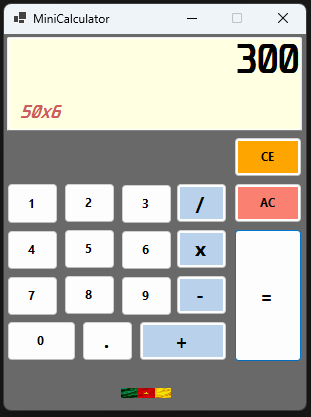
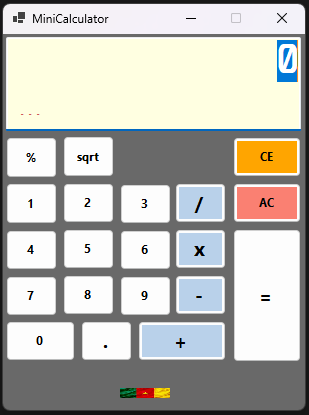
implemented modulo and square root functions

diff --git a/Form1.Designer.cs b/Form1.Designer.cs
@@ -49,6 +49,8 @@
             this.btnDigit0 = new System.Windows.Forms.Button();
             this.pictureBoxLogo = new System.Windows.Forms.PictureBox();
             this.labelDisplay = new System.Windows.Forms.Label();
+            this.buttonSqrt = new System.Windows.Forms.Button();
+            this.buttonModulo = new System.Windows.Forms.Button();
             ((System.ComponentModel.ISupportInitialize)(this.pictureBoxLogo)).BeginInit();
             this.SuspendLayout();
             // 
@@ -317,12 +319,38 @@
             this.labelDisplay.TextAlign = System.Drawing.ContentAlignment.BottomRight;
             this.labelDisplay.UseWaitCursor = true;
             // 
+            // buttonSqrt
+            // 
+            this.buttonSqrt.Font = new System.Drawing.Font("Segoe UI", 9F, System.Drawing.FontStyle.Bold, System.Drawing.GraphicsUnit.Point);
+            this.buttonSqrt.Location = new System.Drawing.Point(60, 102);
+            this.buttonSqrt.Name = "buttonSqrt";
+            this.buttonSqrt.Size = new System.Drawing.Size(51, 41);
+            this.buttonSqrt.TabIndex = 21;
+            this.buttonSqrt.Text = "sqrt";
+            this.buttonSqrt.UseVisualStyleBackColor = true;
+            this.buttonSqrt.UseWaitCursor = true;
+            this.buttonSqrt.Click += new System.EventHandler(this.btnOperator_click);
+            // 
+            // buttonModulo
+            // 
+            this.buttonModulo.Font = new System.Drawing.Font("Segoe UI", 9F, System.Drawing.FontStyle.Bold, System.Drawing.GraphicsUnit.Point);
+            this.buttonModulo.Location = new System.Drawing.Point(3, 103);
+            this.buttonModulo.Name = "buttonModulo";
+            this.buttonModulo.Size = new System.Drawing.Size(51, 41);
+            this.buttonModulo.TabIndex = 24;
+            this.buttonModulo.Text = "%";
+            this.buttonModulo.UseVisualStyleBackColor = true;
+            this.buttonModulo.UseWaitCursor = true;
+            this.buttonModulo.Click += new System.EventHandler(this.btnOperator_click);
+            // 
             // Calculator
             // 
             this.AutoScaleDimensions = new System.Drawing.SizeF(7F, 15F);
             this.AutoScaleMode = System.Windows.Forms.AutoScaleMode.Font;
             this.BackColor = System.Drawing.SystemColors.ControlDarkDark;
             this.ClientSize = new System.Drawing.Size(302, 376);
+            this.Controls.Add(this.buttonModulo);
+            this.Controls.Add(this.buttonSqrt);
             this.Controls.Add(this.labelDisplay);
             this.Controls.Add(this.pictureBoxLogo);
             this.Controls.Add(this.btnDigit0);
@@ -378,5 +406,7 @@
         private Button btnDigit0;
         private PictureBox pictureBoxLogo;
         private Label labelDisplay;
+        private Button buttonSqrt;
+        private Button buttonModulo;
     }
 }

diff --git a/Form1.cs b/Form1.cs
@@ -40,9 +40,19 @@ namespace MiniCalculator
             Button button = (Button)sender;
             operatorValue = button.Text;
 
-            displayValue = double.Parse(txtBoxDisplay.Text);
-            _ = true;
-            labelDisplay.Text = displayValue + "" + operatorValue;
+            //if "-" operator is pressed in order to enter a negative number, show "-" on screen
+            if (operatorValue=="-" && txtBoxDisplay.Text=="0")
+            {
+                txtBoxDisplay.Text = "-";
+            }
+            else
+            {
+                displayValue = double.Parse(txtBoxDisplay.Text);
+                _ = true;
+                labelDisplay.Text = displayValue + "" + operatorValue;
+            }
+
+            
         }
         private void btnOperatorEqual_click(object sender, EventArgs e)
         {
@@ -55,6 +65,7 @@ namespace MiniCalculator
                     break;
 
                 case "-":
+                    
                     txtBoxDisplay.Text = (displayValue - double.Parse(txtBoxDisplay.Text)).ToString();
                     break;
 
@@ -82,10 +93,39 @@ namespace MiniCalculator
                     }
                     
                     break;
+                case "%":
+                    txtBoxDisplay.Text = (displayValue % double.Parse(txtBoxDisplay.Text)).ToString();
+                    break;
+
+                case "sqrt":
+                    try
+                    {
+                        if (double.Parse(txtBoxDisplay.Text) < 0)
+                        {
+                            throw new Exception("MATH ERROR: Only positive numbers");
+                        }
+                        string typedNumber = txtBoxDisplay.Text;
+                        txtBoxDisplay.Text = Math.Sqrt(double.Parse(txtBoxDisplay.Text)).ToString();
+                        labelDisplay.Text = "Sqrt(" + typedNumber + ")";
+
+                    }
+                    catch (Exception ex)
+                    {
+
+                        // we catch the exception and show the error message on the screen
+                        txtBoxDisplay.Clear();
+                        labelDisplay.Text = ex.Message;
+                    }
+                    
+                    break;
+
+                default:
+                    txtBoxDisplay.Clear();
+                    labelDisplay.Text = "SYSTEM FAILURE : UNKNOWN OPERATION";
+                    break;
             }
          
             
         }
-       
     }
 }
